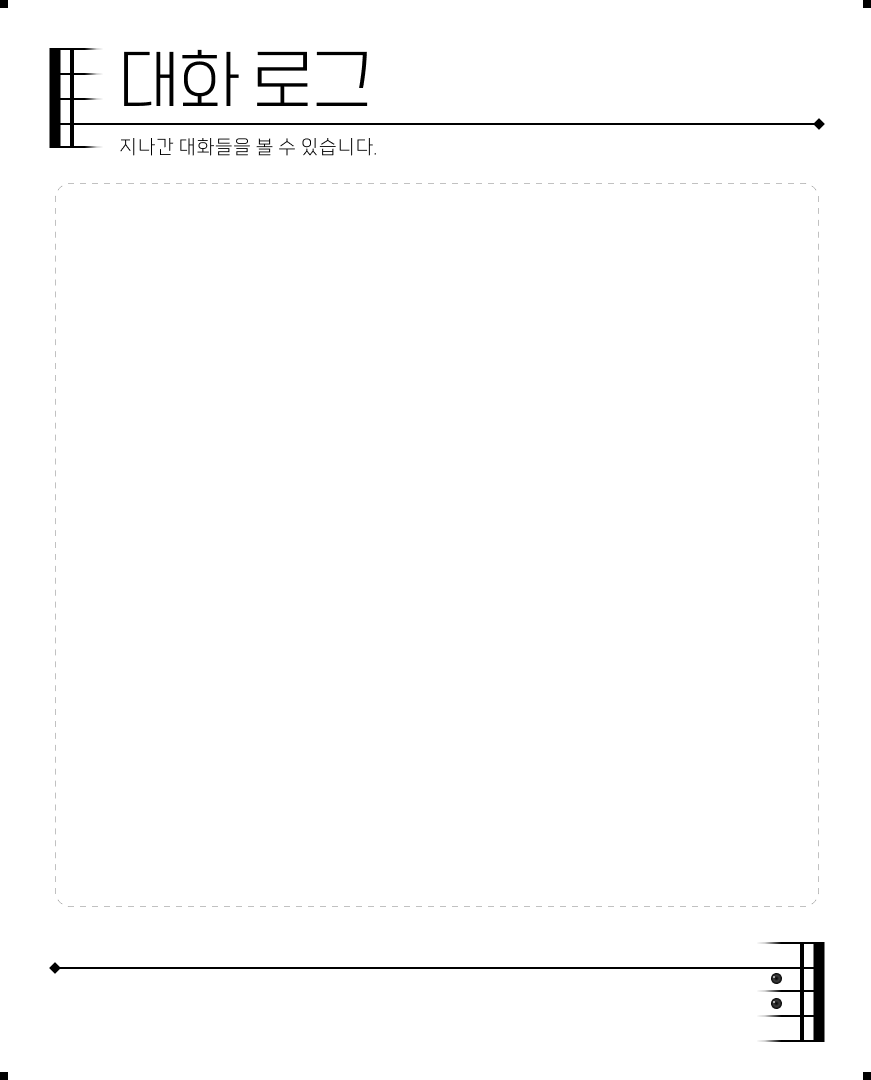
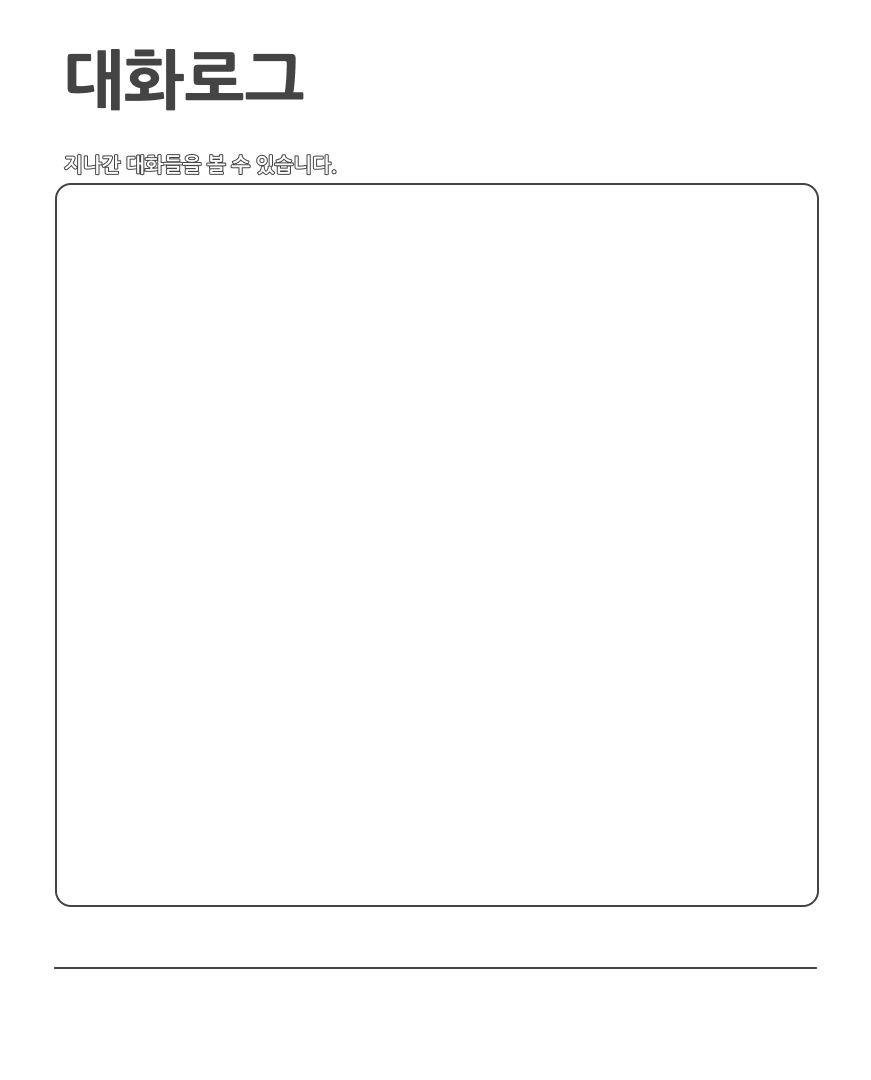
202 : 로그 UI 리소스 수정 및 배치

diff --git a/data/others/plugin/theme_kopanda_bth_06_blue/bth06.css b/data/others/plugin/theme_kopanda_bth_06_blue/bth06.css
@@ -66,7 +66,7 @@
 --------------------------------------*/
 .log_body {
 	position: absolute;
-	width: 764px;
+	width: 762px;
 	height: 624px;
 	left: 55px;
 	top: 183px;
@@ -78,7 +78,7 @@
 	border: none;
 	overflow-y: scroll;
 	font-size:30px;
-	font-family: 'TheJamsil1Thin' !important;	
+	font-family: 'NanumGothicRegular' !important;	
 	-webkit-overflow-scrolling: touch;
 	-webkit-transform: translateZ(0);
 	transform: translateZ(0);
@@ -91,7 +91,7 @@
 }
 
 .log_body::-webkit-scrollbar-thumb {
-	background: #000000;
+	background: #444444;
 	border-radius: 10px;
 }
 

diff --git a/data/others/plugin/theme_kopanda_bth_06_blue/html/backlog.html b/data/others/plugin/theme_kopanda_bth_06_blue/html/backlog.html
@@ -1,6 +1,6 @@
 <div class="display_menu">
 
-	<div class='menu_item menu_close' style='float:left;margin:0;position:absolute;left:33px;top:965px'>
+	<div class='menu_item menu_close' style='float:left;margin:0;position:absolute;left:50px;top:1000px'>
 	<img src='data/image/New_GUI/Log_UI/UI_Close_Bt_01.png' />
 	</div>
 
